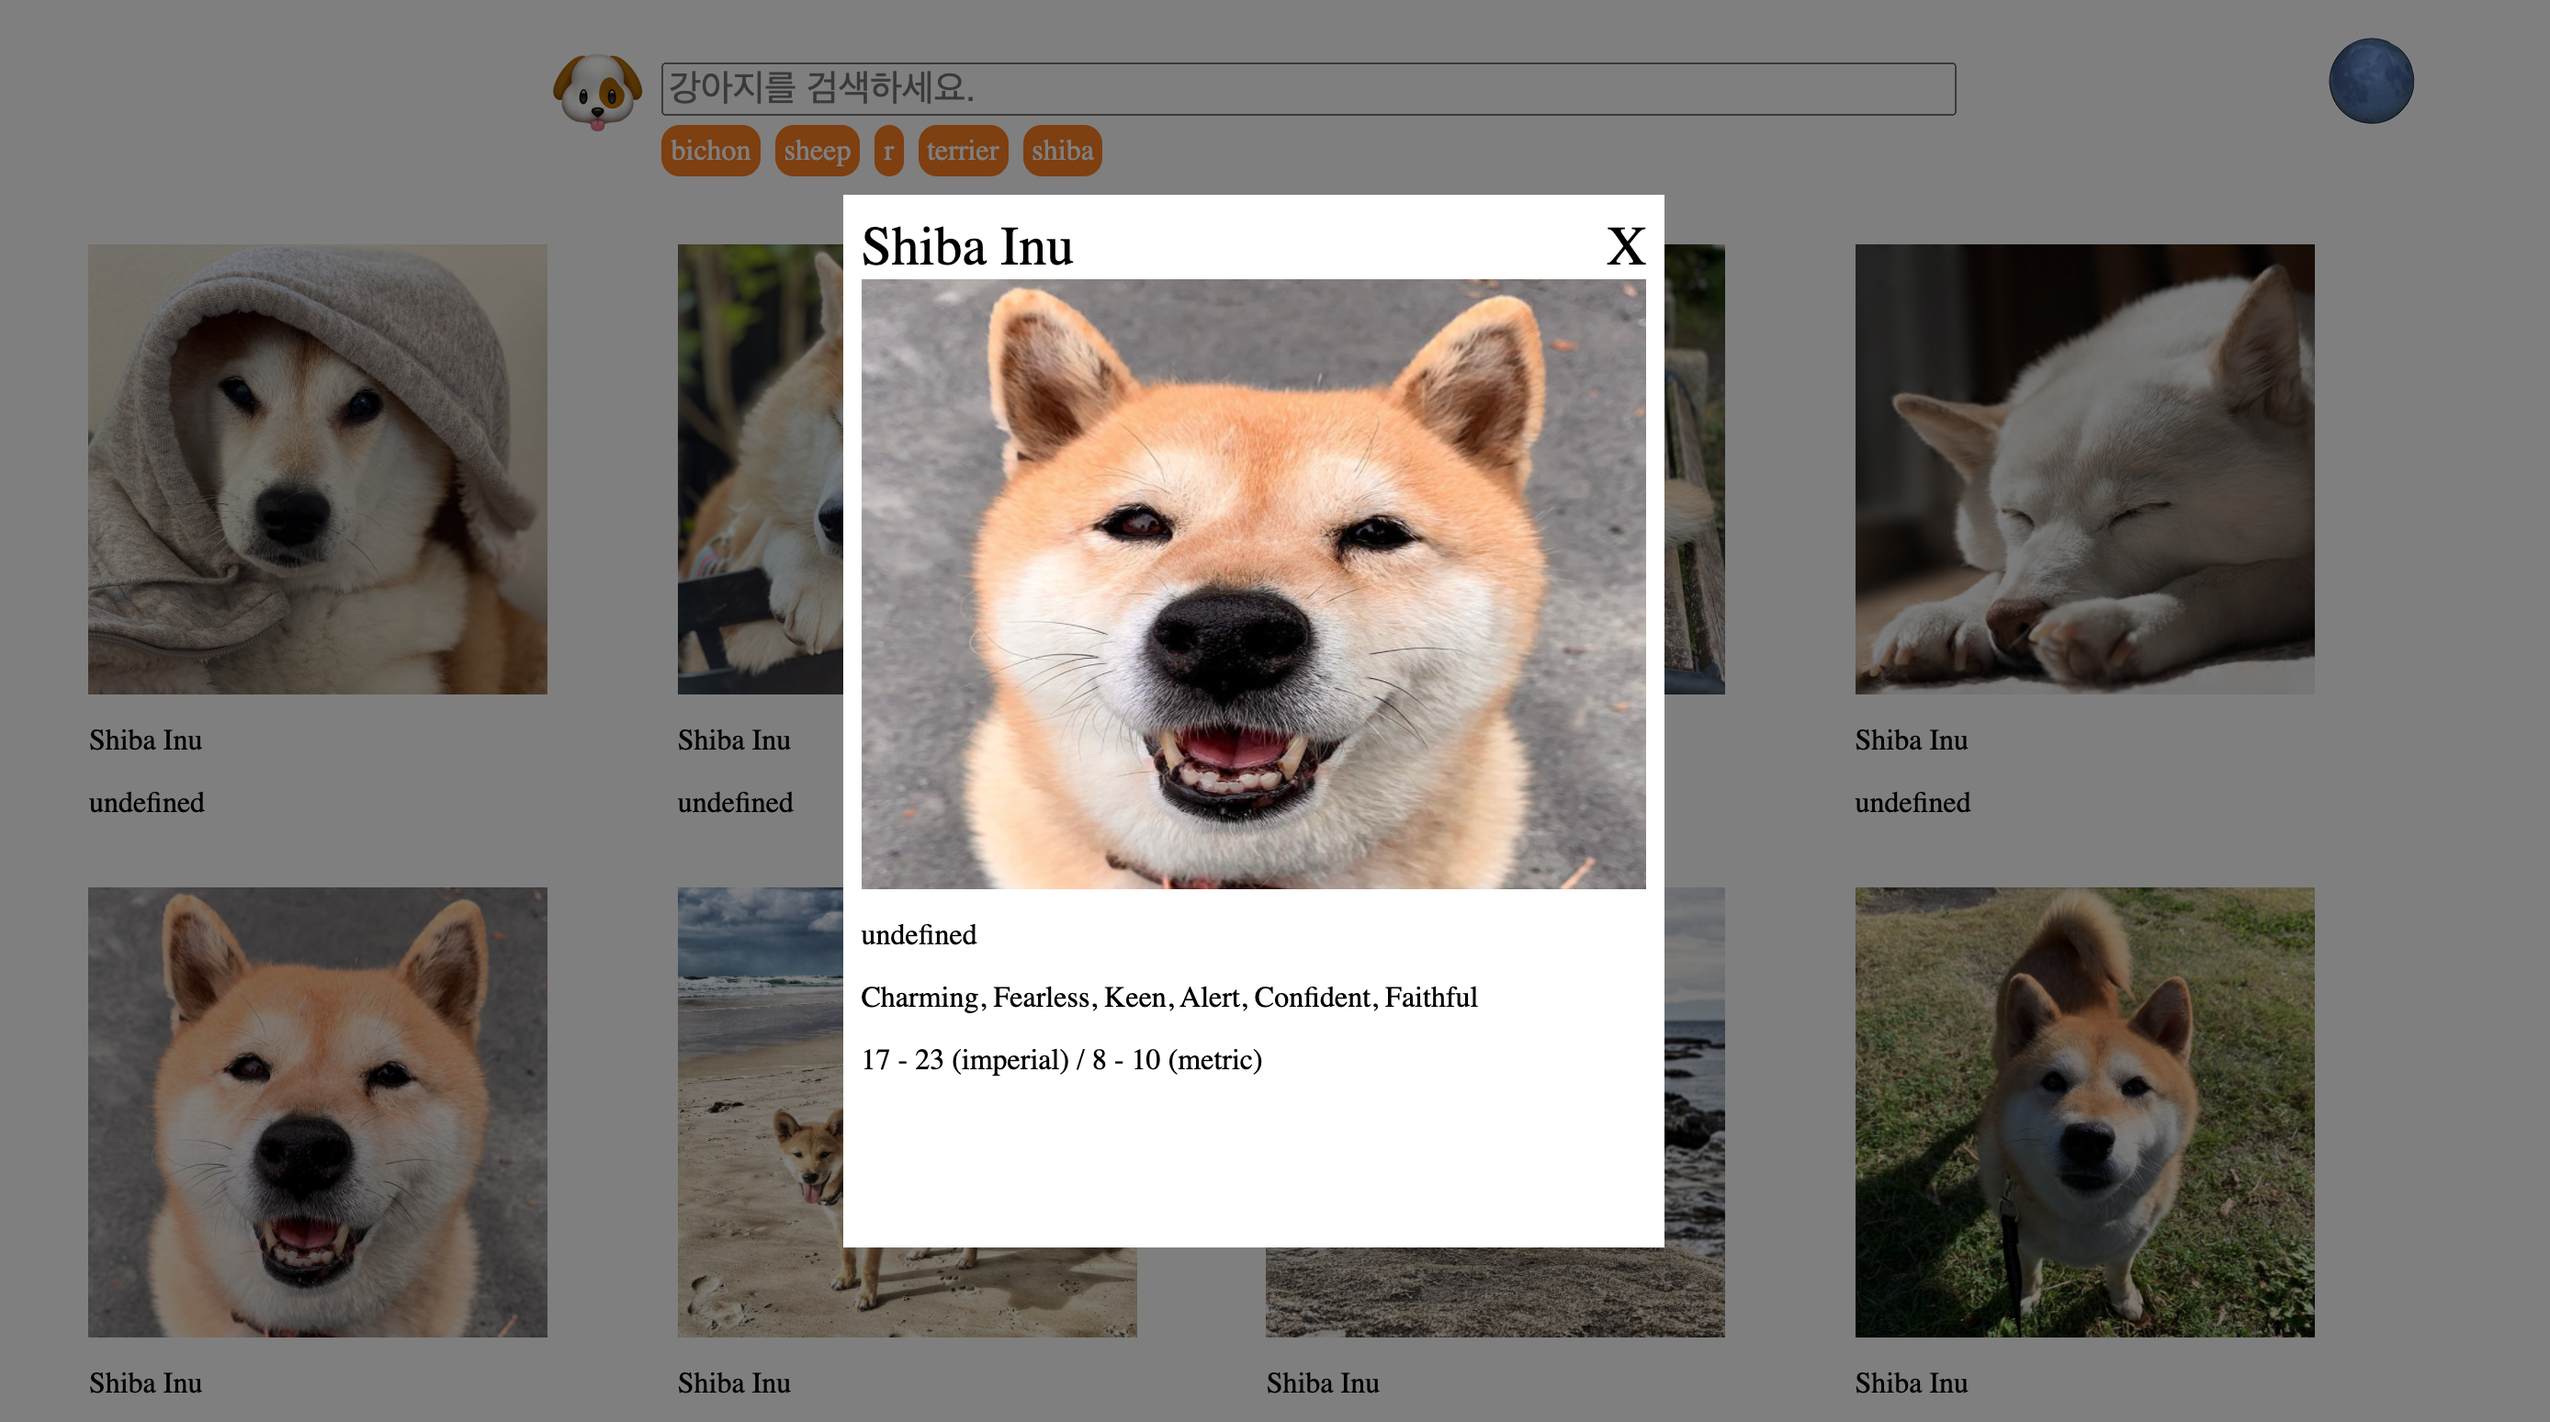
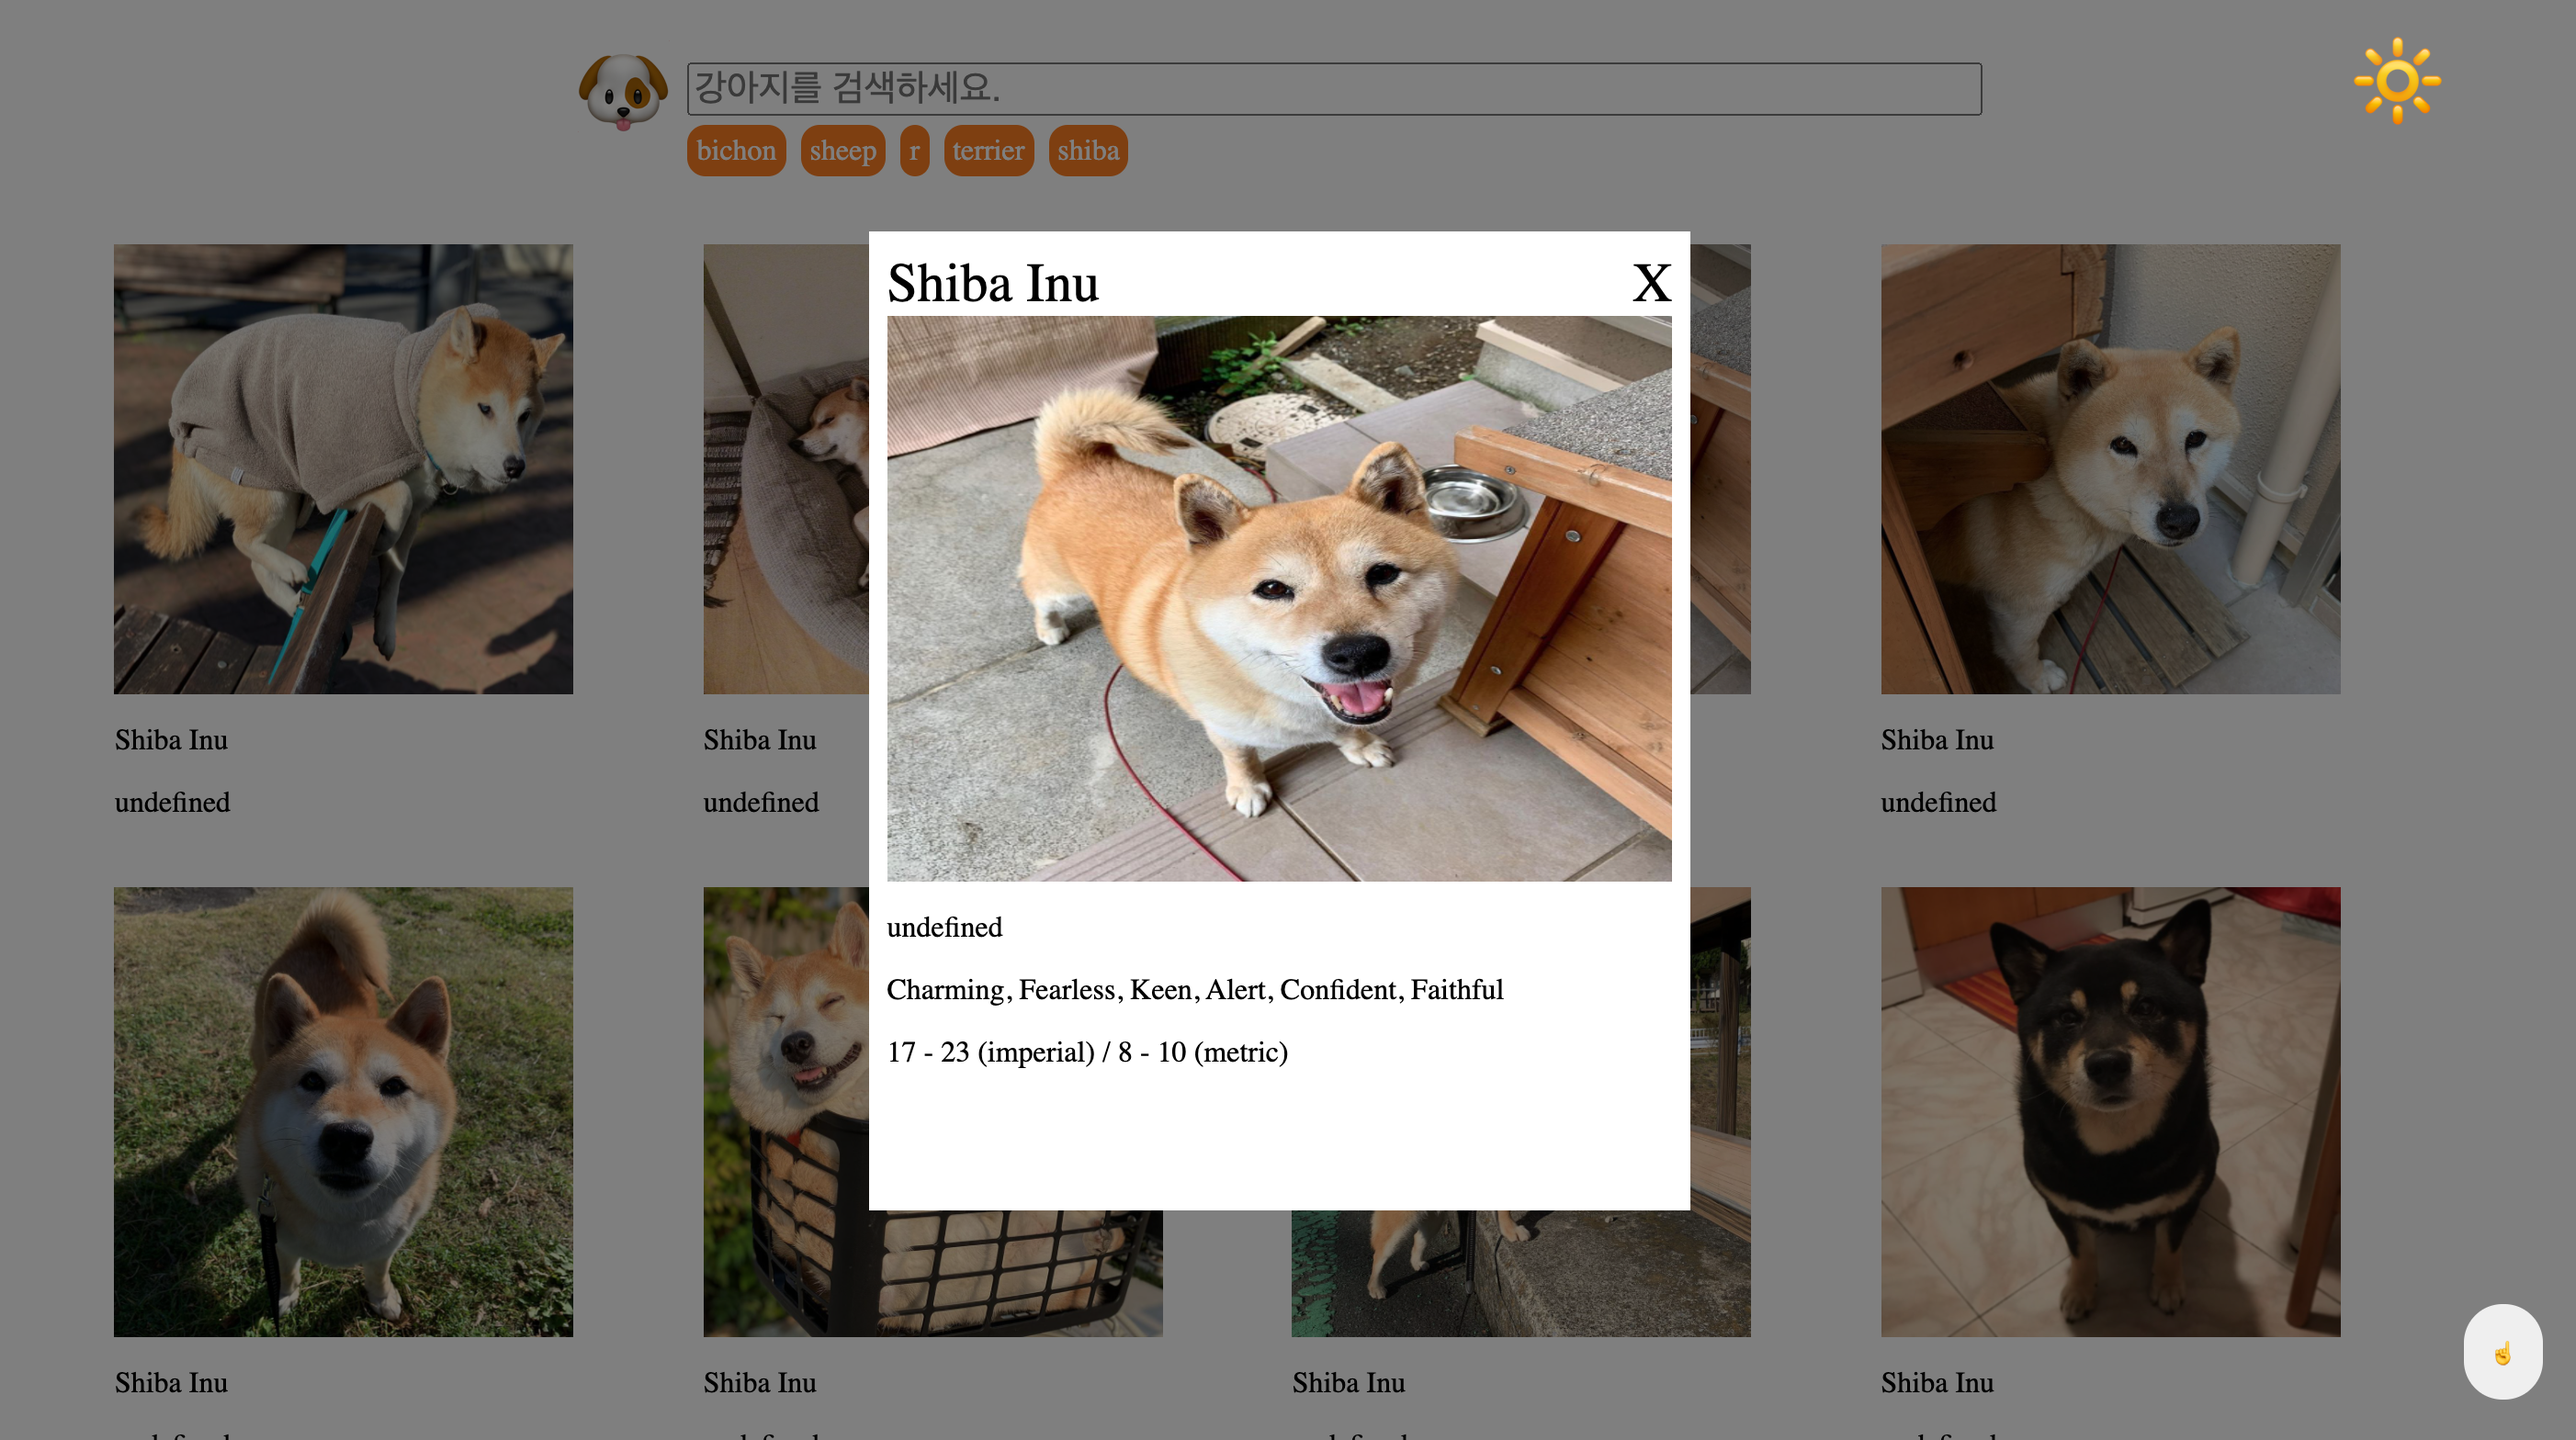
Fix: style & ilovedog.png

diff --git a/src/css/style.css b/src/css/style.css
@@ -1,9 +1,9 @@
 :root {
     --color-mode: 'light';
-    --color-dark: black;
-    --color-light: white;
-    --background: white;
-    --text-color: black;
+    --color-dark: #020202;
+    --color-light: #fefefe;
+    --background: #fefefe;
+    --text-color: #020202;
   }
 
   body {
@@ -143,7 +143,7 @@
     display: flex;
     flex-direction: column;
     
-    height: 70%;
+    height: 65%;
     width: 30%;
     padding: 10px;
     background-color: var(--background);

diff --git a/src/util/darkmode.js b/src/util/darkmode.js
@@ -47,7 +47,7 @@ const toggleSetting = () => {
 };
 
 const setButtonLabel = currentSetting => { 
-    darkmodeBtn.innerText = currentSetting === 'dark' ? '🌕' : '🌑';
+    darkmodeBtn.innerText = currentSetting === 'dark' ? '🌙' : '🔆';
 };
 
 darkmodeBtn.addEventListener('click', evt => {
